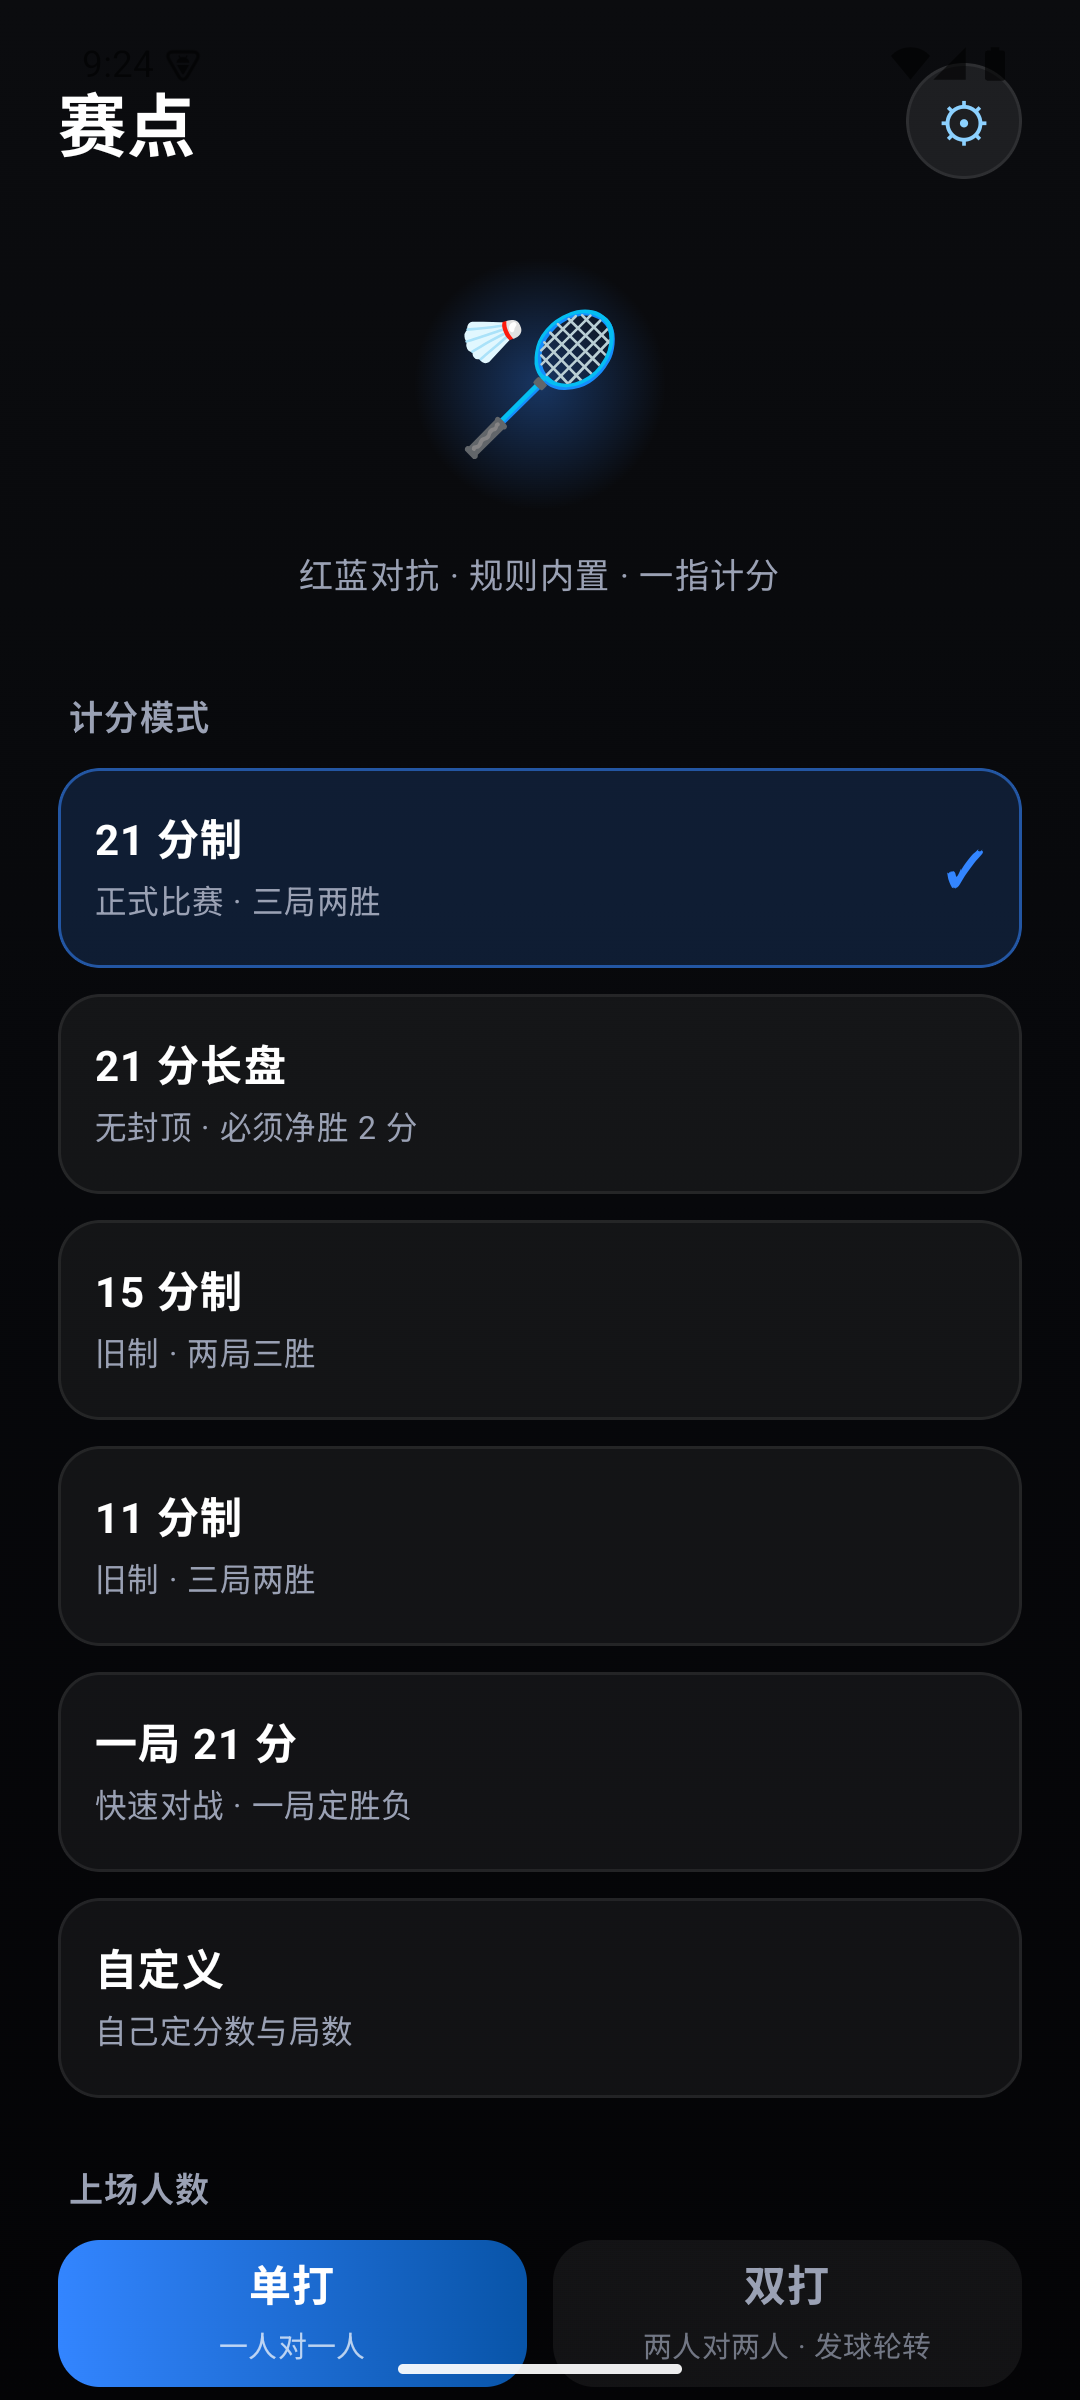
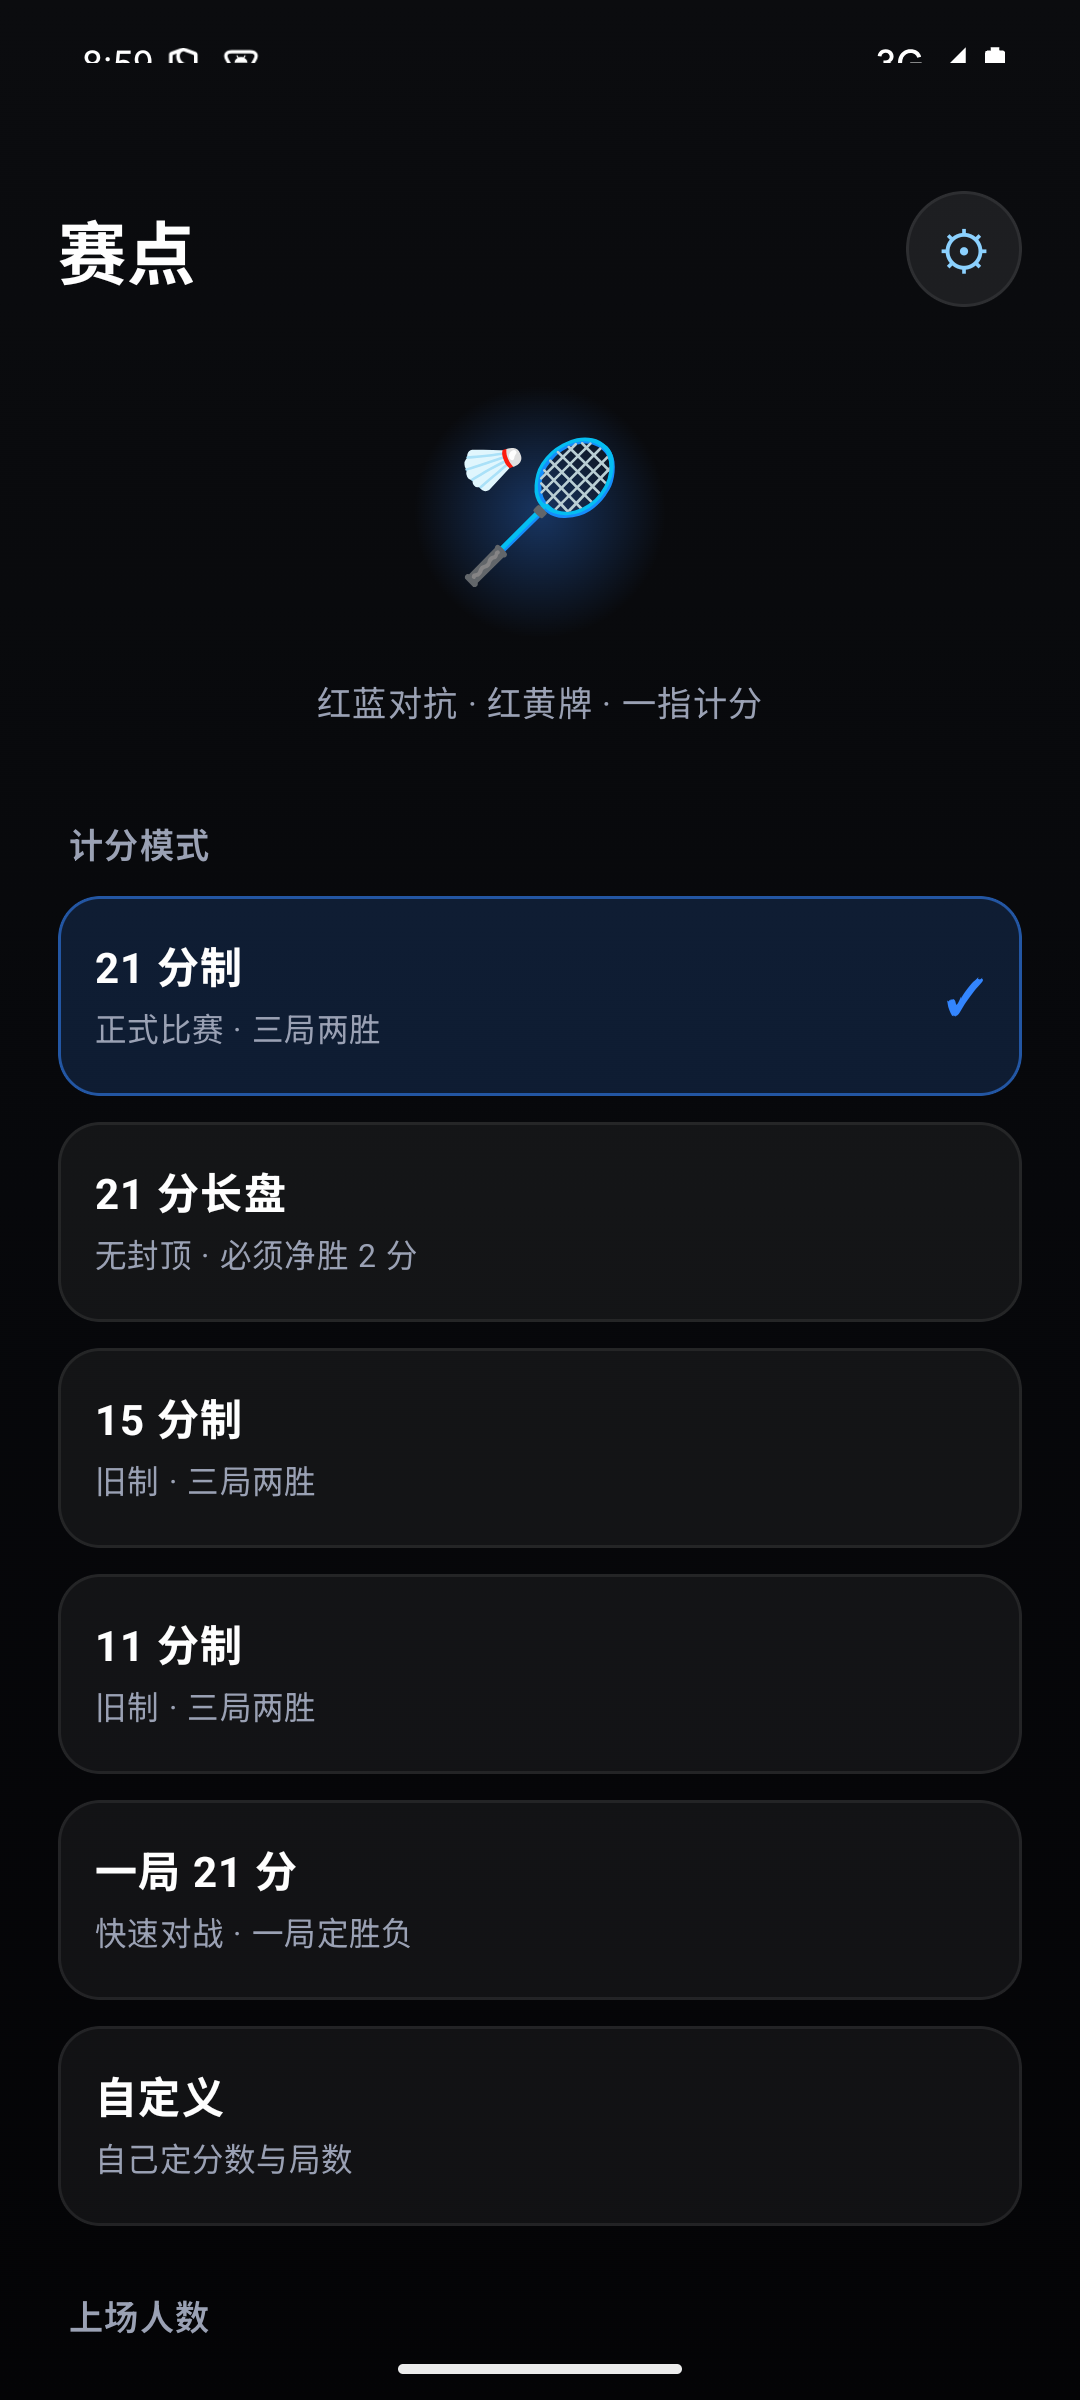
发布视频 2.3.1：同步截图并修正赛制文案

diff --git a/src/BadmintonVideo.tsx b/src/BadmintonVideo.tsx
@@ -164,7 +164,7 @@ const SceneCards: React.FC<{ dur: number }> = ({ dur }) => (
 const MODES: [string, string][] = [
   ["21 分制", "正式比赛 · 三局两胜"],
   ["21 分长盘", "无封顶 · 必须净胜 2 分"],
-  ["15 分制", "旧制 · 两局三胜"],
+  ["15 分制", "旧制 · 三局两胜"],
   ["11 分制", "旧制 · 三局两胜"],
   ["一局 21 分", "快速对战 · 一局定胜负"],
   ["自定义", "自己定分数与局数"],

diff --git a/README.md b/README.md
@@ -9,6 +9,7 @@
 | `BadmintonVideo` | 宣传视频，1920×1080，123 秒 |
 | `Cover` | B 站封面，1146×717 |
 | `LaunchCard` | 竖版公告图，1080×1500 |
+| `SocialPreview` | GitHub 仓库社交预览，1280×640 |
 
 ## 用法
 
@@ -18,7 +19,8 @@ npm install
 npx remotion compositions
 npx remotion still Cover out/cover.png
 npx remotion still LaunchCard out/launch.png
-npx remotion render BadmintonVideo out/saidian-2.3.mp4 --codec=h264 --crf=18
+npx remotion still SocialPreview out/social.png
+npx remotion render BadmintonVideo out/saidian-2.3.1.mp4 --codec=h264 --crf=18
 npx remotion studio          # 可视化编辑器
 ```
 
@@ -32,7 +34,7 @@ npx remotion studio          # 可视化编辑器
 
 ## 关于背景音乐
 
-2.3 视频使用 Episode 33。仓库按原有约定忽略 `*.mp3`，本地渲染前把
+2.3 / 2.3.1 视频使用 Episode 33。仓库按原有约定忽略 `*.mp3`，本地渲染前把
 `Episode 33.mp3` 放到 `public/episode33.mp3`；替换音乐时同步修改
 `src/BadmintonVideo.tsx` 里 `staticFile()` 的文件名。
 
